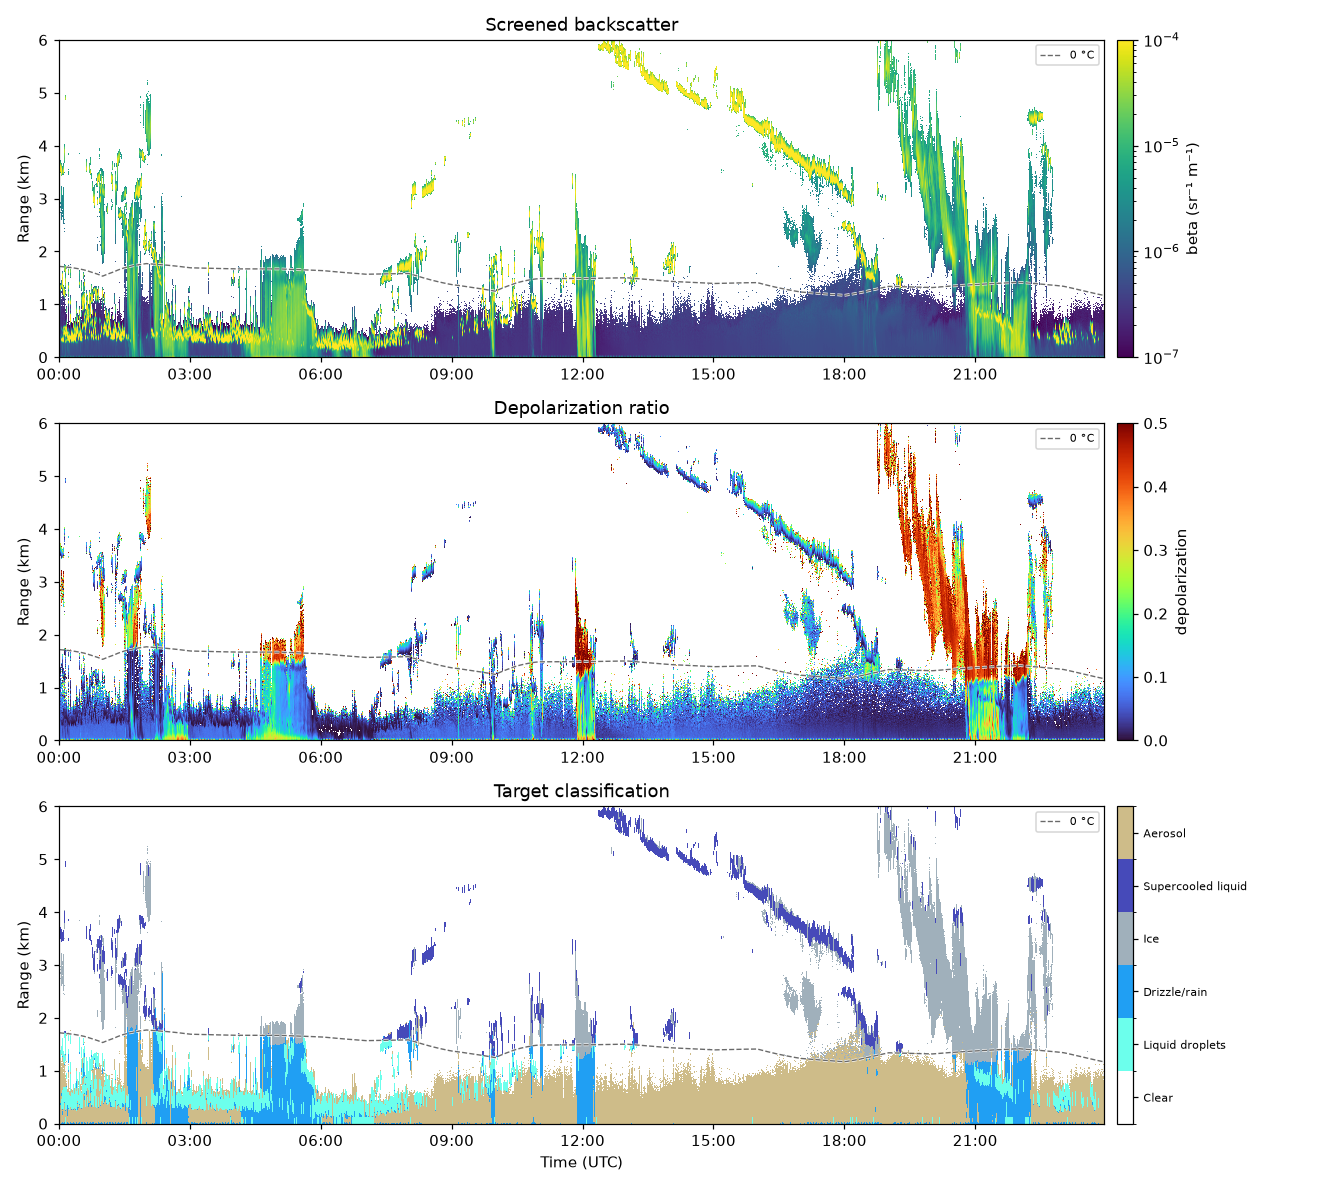
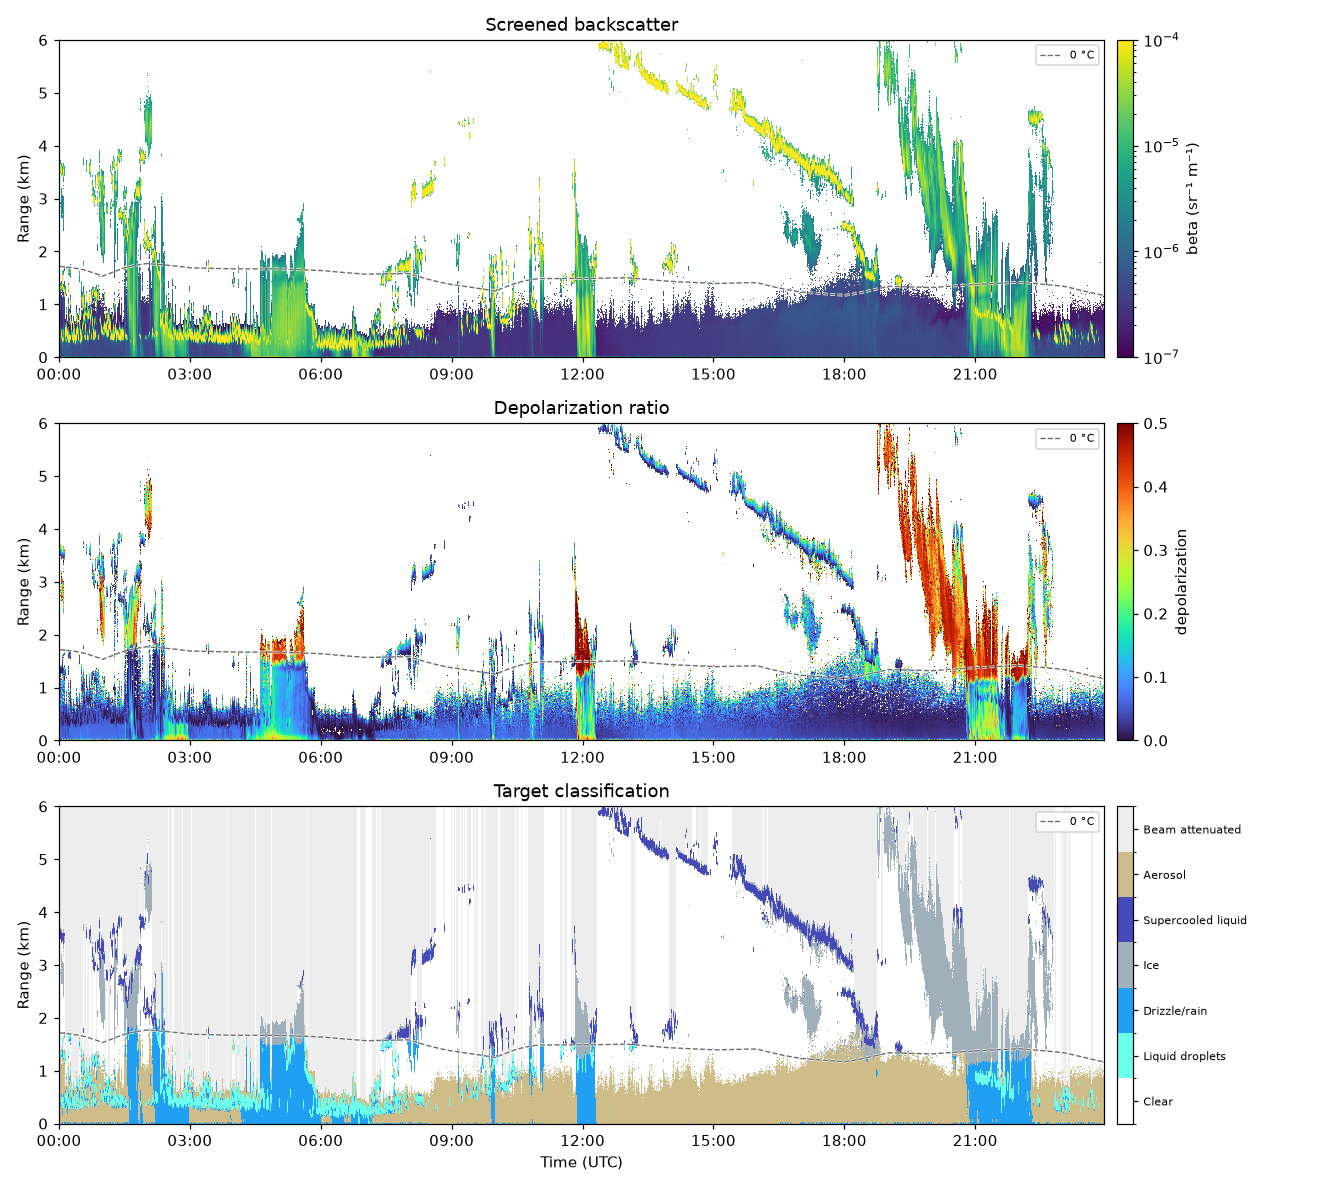
Refresh the README example figure and describe the rain source rule

diff --git a/ceiloclass/cli.py b/ceiloclass/cli.py
@@ -86,7 +86,7 @@ def _add_arguments(p: argparse.ArgumentParser) -> None:
         "--harmonized",
         action="store_true",
         help="Use a Cloudnet harmonized backscatter product (ceilometers, PollyXT, "
-        "doppler-lidars) instead of raw instrument data",
+        "DIAL, doppler-lidars) instead of raw instrument data",
     )
     p.add_argument(
         "--no-rescreen",

diff --git a/README.md b/README.md
@@ -99,7 +99,9 @@ classification, restricted to the parts that work without radar:
   a warm **liquid droplet** layer otherwise.
 - **Strong, non-liquid signal** is cloud or precipitation: **ice** in the
   sub-freezing air above the 0 °C level, **drizzle/rain** in the warm air below
-  it. The backscatter threshold separating this from weaker signal is picked per
+  it. Precipitation falls from a cloud, so drizzle/rain is kept only where it
+  connects to a liquid layer or ice above, or where the column is too deep to
+  be aerosol; other bright warm signal stays aerosol. The backscatter threshold separating this from weaker signal is picked per
   file from the backscatter histogram, so it adapts to each site/day's aerosol
   load.
 - Remaining signal is **aerosol**; gates with no signal are **clear** — except
